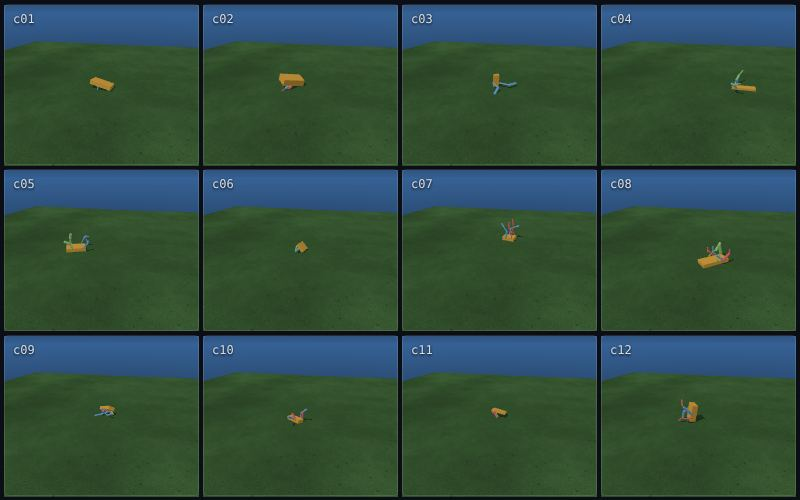
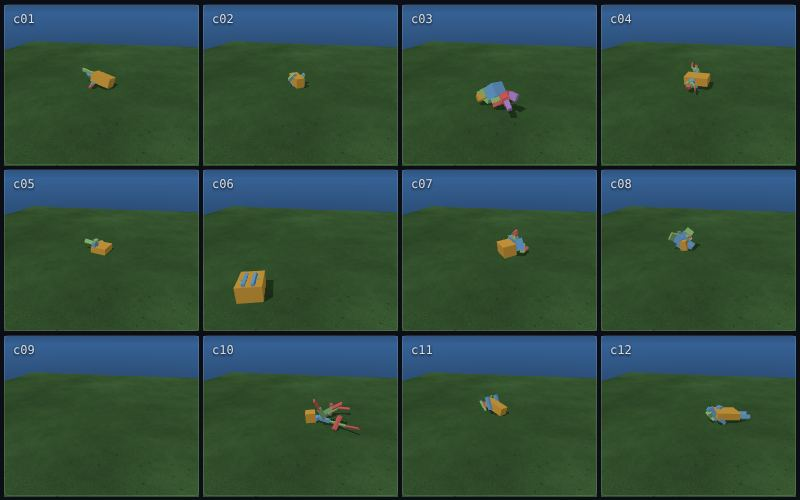
Evolved creatures: bodies are trees of blocks (face, size, hinge axis, mirror, second segment) so novel morphologies can evolve; guard against thrown creatures
Claude-Session: https://claude.ai/code/session_01Uuc6dwJ5Bjk5VjRCLHRDrp

diff --git a/examples/evolved-creatures/creatures.js b/examples/evolved-creatures/creatures.js
@@ -4,9 +4,13 @@
 //
 //   the creature   a controller. Its body and brain come from the scene's `data.genome`, so the same
 //                  script drives any creature a genome describes.
-//   the genome     plain data: torso size, up to three mirrored pairs of limbs (each one to three
-//                  segments with a length, a thickness and a hinge direction), and the weights of a
-//                  small neural network. `bodyOf` turns it into the scene's body.
+//   the genome     plain data, in two parts. The BODY is a short list of blocks. The first is the trunk;
+//                  every other block says which earlier block it hangs from, on which face, where on
+//                  that face, how big it is, which way its hinge turns, whether to repeat it as a mirror
+//                  image across the body, and whether to continue it as a second segment. That is a small
+//                  version of Sims' recursive graph, and it can still make legs, arms, tails, fins,
+//                  spines and stacks of blocks nobody planned. The BRAIN is the weights of a small
+//                  neural network with one slot for every joint a body could have.
 //   the parent     a program that runs a whole population as sub-simulations, one creature each, side by
 //                  side. At the end of a generation it ranks them by how far they walked, keeps the best,
 //                  and breeds the rest. Evolution is written here, not in the engine.
@@ -14,16 +18,82 @@
 // Try: raise "mutation strength" for wilder offspring, lower "survivors kept" for stronger selection, and
 // click a tile to watch one creature on its own.
 
-const PAIRS = 3 // limb pairs a body can grow
-const SEGS = 3 // segments in a limb
-const SLOTS = PAIRS * 2 * SEGS // every joint a body could have
-const SIZES = [SLOTS + PAIRS * 2 + 5, 10, SLOTS] // brain: joint angles, touch, which way is up, a clock -> joint targets
+const BLOCKS = 7 // blocks after the trunk
+const SIDES = 2 // an instance of a block is on the genome's side (0) or its mirror image (1)
+const CHAIN = 2 // a block can continue as a second segment
+const SLOTS = BLOCKS * SIDES * CHAIN // every joint a body could have
+const SIZES = [SLOTS + 5, 12, SLOTS] // brain: joint angles, which way is up, a clock -> joint targets
 const WEIGHTS = SIZES.slice(1).reduce((n, out, i) => n + (SIZES[i] + 1) * out, 0)
 const SWING = 1.2 // radians a joint can turn either way
 const SETTLE = 90 // ticks a creature gets to land before its walk is measured
+const AXES = [[1, 0, 0], [0, 1, 0], [0, 0, 1]]
+const FACES = [[0, 1], [0, -1], [1, 1], [1, -1], [2, 1], [2, -1]] // [axis, direction]: which side of the parent block
+const COLORS = ['#d9a441', '#6fa8dc', '#93c47d', '#e06666', '#b48ad9', '#76d7c4']
 
-const slot = (pair, side, seg) => pair * 6 + side * 3 + seg
-const sideName = ['L', 'R']
+const slotOf = (i, side, seg) => ((i - 1) * SIDES + side) * CHAIN + seg
+const nameOf = (i, side, seg) => `${i}_${side}_${seg}`
+
+// ---------------------------------------------------------------------------------------------------------
+// The body: a genome becomes a tree of blocks
+
+/**
+ * Lay a genome out as blocks standing on the ground: every block with its size, where its middle is, where its joint is, and
+ * which block it hangs from. A block that hangs from something that is switched off is dropped, and mirrored blocks are placed
+ * on the other side of the trunk.
+ */
+export function layout(g) {
+  const items = [{ i: 0, side: 0, seg: 0, size: g.root.slice(), center: [0, 0, 0], depth: 0, parent: null }]
+  const byKey = new Map([[nameOf(0, 0, 0), items[0]]])
+  const sides = [[0]] // which sides each block exists on; the trunk only on side 0
+  g.blocks.forEach((b, k) => {
+    const i = k + 1
+    if (!b.on || !sides[b.parent]) return
+    sides[i] = b.mirror ? [0, 1] : sides[b.parent]
+    for (const side of sides[i]) {
+      const parent = byKey.get(nameOf(b.parent, sides[b.parent].includes(side) ? side : sides[b.parent][0], 0))
+      let [axis, dir] = FACES[b.face]
+      if (side && axis === 2) dir = -dir // the mirror image sits on the other side
+      const over = [0, 1, 2].filter((a) => a !== axis) // the two directions along the parent's face
+      const offset = [0, 0, 0]
+      offset[over[0]] = b.u * parent.size[over[0]] / 2
+      offset[over[1]] = b.v * parent.size[over[1]] / 2
+      if (side) offset[2] = -offset[2]
+      let from = parent, size = b.size.slice()
+      for (let seg = 0; seg < b.chain; seg++) {
+        const center = from.center.map((c, a) => c + offset[a])
+        center[axis] += dir * (from.size[axis] / 2 + size[axis] / 2)
+        const anchor = from.center.map((c, a) => c + offset[a])
+        anchor[axis] += dir * from.size[axis] / 2
+        const item = { i, side, seg, size, center, anchor, depth: from.depth + 1, parent: from, hinge: seg ? b.axis2 : b.axis }
+        items.push(item)
+        byKey.set(nameOf(i, side, seg), item)
+        from = item
+        size = size.map((s) => Math.max(0.05, s * 0.8))
+        offset.fill(0) // a second segment continues straight on
+      }
+    }
+  })
+  const floor = Math.min(...items.map((t) => t.center[1] - t.size[1] / 2))
+  for (const t of items) {
+    t.center[1] += 0.03 - floor
+    if (t.anchor) t.anchor[1] += 0.03 - floor
+  }
+  return items
+}
+
+/** The scene's body for a genome: a box for every block and a hinge motor between each block and the one it hangs from. */
+export function bodyOf(g) {
+  const parts = [], joints = []
+  for (const t of layout(g)) {
+    const name = `B${nameOf(t.i, t.side, t.seg)}`
+    const mass = Math.max(0.05, 50 * t.size[0] * t.size[1] * t.size[2])
+    parts.push({ name, shape: 'box', size: t.size, mass, position: t.center, color: COLORS[t.depth % COLORS.length] })
+    if (!t.parent) continue
+    const stiffness = 60 + 120 * Math.min(3, mass)
+    joints.push({ name: `J${nameOf(t.i, t.side, t.seg)}`, parent: `B${nameOf(t.parent.i, t.parent.side, t.parent.seg)}`, child: name, anchor: t.anchor, axis: AXES[t.hinge], limits: [-SWING, SWING], motor: { stiffness, damping: stiffness * 0.1 } })
+  }
+  return { parts, joints, sensors: [{ type: 'pose' }, { type: 'joints' }] }
+}
 
 // ---------------------------------------------------------------------------------------------------------
 // The creature
@@ -35,25 +105,19 @@ export default {
     const x = new Float64Array(SIZES[0])
     const joints = self.joints
     const live = [] // [joint name, slot] for each joint this body has
-    g.pairs.forEach((pair, i) => {
-      if (!pair.on) return
-      for (let side = 0; side < 2; side++) {
-        for (let k = 0; k < pair.segs.length; k++) {
-          const name = `J${i}${sideName[side]}${k}`
-          x[slot(i, side, k)] = (joints[name] ?? 0) / SWING
-          live.push([name, slot(i, side, k)])
-        }
-        const foot = `S${i}${sideName[side]}${pair.segs.length - 1}`
-        x[SLOTS + i * 2 + side] = self.touch[foot] ? 1 : 0
-      }
-    })
+    for (const t of layout(g)) {
+      if (!t.parent) continue
+      const name = `J${nameOf(t.i, t.side, t.seg)}`
+      x[slotOf(t.i, t.side, t.seg)] = (joints[name] ?? 0) / SWING
+      live.push([name, slotOf(t.i, t.side, t.seg)])
+    }
     const up = self.up
-    x[SLOTS + PAIRS * 2] = up.x
-    x[SLOTS + PAIRS * 2 + 1] = up.y
-    x[SLOTS + PAIRS * 2 + 2] = up.z
+    x[SLOTS] = up.x
+    x[SLOTS + 1] = up.y
+    x[SLOTS + 2] = up.z
     const phase = 2 * Math.PI * g.rhythm * ctx.tick * ctx.dt
-    x[SLOTS + PAIRS * 2 + 3] = Math.sin(phase)
-    x[SLOTS + PAIRS * 2 + 4] = Math.cos(phase)
+    x[SLOTS + 3] = Math.sin(phase)
+    x[SLOTS + 4] = Math.cos(phase)
 
     const out = ctx.mlp(SIZES).run(g.weights, x)
     const targets = {}
@@ -70,90 +134,73 @@ export const metrics = {
   z: ({ creatures }) => mean(creatures.map((c) => c.z)),
   // 1 standing, 0 on its side, -1 upside down
   upright: ({ creatures }) => mean(creatures.map((c) => c.up.y)),
+  // how high and how fast: a parent uses these to spot a creature the physics has thrown across the world
+  y: ({ creatures }) => mean(creatures.map((c) => c.y)),
+  speed: ({ creatures }) => mean(creatures.map((c) => c.speed)),
 }
 
 // ---------------------------------------------------------------------------------------------------------
 // The genome
 
-const RANGE = { length: [0.5, 1.6], width: [0.3, 0.8], height: [0.12, 0.4], at: [-0.35, 0.35], len: [0.12, 0.55], rad: [0.03, 0.09], rhythm: [0.4, 3] }
+const ROOT = [0.3, 1.2], DIM = [0.06, 1], RHYTHM = [0.4, 3]
 const clamp = (v, [lo, hi]) => Math.min(hi, Math.max(lo, v))
 const between = (r, [lo, hi]) => lo + r() * (hi - lo)
+const pickInt = (r, n) => Math.floor(r() * n)
 
-function randomSegment(r) {
-  return { len: between(r, RANGE.len), rad: between(r, RANGE.rad), axis: r() < 0.7 ? 0 : 1 }
-}
-
-function randomPair(r, on) {
-  return { on, at: between(r, RANGE.at), segs: Array.from({ length: 1 + Math.floor(r() * SEGS) }, () => randomSegment(r)) }
+/** A new block: often a long thin one (a limb, a tail), sometimes a lump, hanging from any earlier block. */
+function randomBlock(r, k, on) {
+  const size = [0, 0, 0].map(() => between(r, [0.06, 0.2]))
+  if (r() < 0.7) size[pickInt(r, 3)] = between(r, [0.25, 0.7])
+  else for (let a = 0; a < 3; a++) size[a] = between(r, [0.1, 0.5])
+  return { on, parent: pickInt(r, k + 1), face: pickInt(r, 6), u: between(r, [-0.7, 0.7]), v: between(r, [-0.7, 0.7]), size, axis: pickInt(r, 3), axis2: pickInt(r, 3), mirror: r() < 0.6, chain: 1 + pickInt(r, CHAIN) }
 }
 
 export function randomGenome(r, normal) {
   return {
-    torso: { length: between(r, RANGE.length), width: between(r, RANGE.width), height: between(r, RANGE.height) },
-    pairs: Array.from({ length: PAIRS }, (_, i) => randomPair(r, i === 0 || r() < 0.5)),
-    rhythm: between(r, RANGE.rhythm),
+    root: [between(r, [0.4, 1.1]), between(r, [0.2, 0.5]), between(r, [0.3, 0.8])],
+    blocks: Array.from({ length: BLOCKS }, (_, k) => randomBlock(r, k + 1 - 1, k < 2 || r() < 0.4)),
+    rhythm: between(r, RHYTHM),
     weights: Array.from({ length: WEIGHTS }, () => 0.6 * normal()),
   }
 }
 
-/** A child: each part of the body from either parent, each weight from either parent. */
+/** A child: the trunk and each block from either parent, each weight from either parent. */
 export function crossover(a, b, r) {
   const pick = (x, y) => (r() < 0.5 ? x : y)
   return structuredClone({
-    torso: { length: pick(a.torso.length, b.torso.length), width: pick(a.torso.width, b.torso.width), height: pick(a.torso.height, b.torso.height) },
-    pairs: a.pairs.map((pa, i) => pick(pa, b.pairs[i])),
+    root: pick(a.root, b.root),
+    blocks: a.blocks.map((blk, k) => pick(blk, b.blocks[k])),
     rhythm: pick(a.rhythm, b.rhythm),
     weights: a.weights.map((w, i) => pick(w, b.weights[i])),
   })
 }
 
-/** A copy with some genes nudged. `strength` 0..1 scales how many change and by how much. */
+/** A copy with some genes nudged, blocks added, dropped or moved. `strength` 0..1 scales how many change and by how much. */
 export function mutate(g, strength, r, normal) {
   const c = structuredClone(g)
-  const nudge = (v, range) => clamp(v + normal() * 0.15 * strength * (range[1] - range[0]), range)
   const chance = (p) => r() < p * strength
-  for (const k of ['length', 'width', 'height']) if (chance(0.5)) c.torso[k] = nudge(c.torso[k], RANGE[k])
-  if (chance(0.5)) c.rhythm = nudge(c.rhythm, RANGE.rhythm)
-  c.pairs.forEach((pair, i) => {
-    if (i > 0 && chance(0.1)) pair.on = !pair.on
-    if (chance(0.4)) pair.at = nudge(pair.at, RANGE.at)
-    for (const seg of pair.segs) {
-      if (chance(0.5)) seg.len = nudge(seg.len, RANGE.len)
-      if (chance(0.5)) seg.rad = nudge(seg.rad, RANGE.rad)
-      if (chance(0.08)) seg.axis = 1 - seg.axis
+  const grow = (v, range) => clamp(v * Math.exp(normal() * 0.25 * strength), range) // sizes change by a factor
+  for (let a = 0; a < 3; a++) if (chance(0.4)) c.root[a] = grow(c.root[a], ROOT)
+  if (chance(0.4)) c.rhythm = clamp(c.rhythm + normal() * 0.3 * strength, RHYTHM)
+  c.blocks.forEach((b, k) => {
+    const i = k + 1
+    if (!b.on) {
+      if (chance(0.12)) c.blocks[k] = randomBlock(r, i - 1, true) // a new block appears
+      return
     }
-    if (chance(0.15)) {
-      if (pair.segs.length < SEGS && r() < 0.5) pair.segs.push(randomSegment(r))
-      else if (pair.segs.length > 1) pair.segs.pop()
-    }
+    for (let a = 0; a < 3; a++) if (chance(0.35)) b.size[a] = grow(b.size[a], DIM)
+    if (chance(0.3)) b.u = clamp(b.u + normal() * 0.3 * strength, [-0.9, 0.9])
+    if (chance(0.3)) b.v = clamp(b.v + normal() * 0.3 * strength, [-0.9, 0.9])
+    if (chance(0.1)) b.face = pickInt(r, 6)
+    if (chance(0.1)) b.axis = pickInt(r, 3)
+    if (chance(0.1)) b.axis2 = pickInt(r, 3)
+    if (chance(0.1)) b.mirror = !b.mirror
+    if (chance(0.1)) b.chain = 1 + pickInt(r, CHAIN)
+    if (chance(0.1)) b.parent = pickInt(r, i) // hang from a different earlier block
+    if (k > 0 && chance(0.06)) b.on = false // and a block can disappear, with whatever hung from it
   })
   for (let i = 0; i < c.weights.length; i++) if (r() < 0.12 * Math.max(strength, 0.05)) c.weights[i] += normal() * 0.5 * strength
   return c
-}
-
-/** The scene's body for a genome: a box torso, and for each pair of limbs a chain of capsules on a hinge each side. */
-export function bodyOf(g) {
-  const { length, width, height } = g.torso
-  const reach = Math.max(0, ...g.pairs.filter((p) => p.on).map((p) => p.segs.reduce((n, s) => n + s.len, 0) + p.segs[p.segs.length - 1].rad))
-  const top = reach + height / 2 + 0.03 // the torso's middle, so the longest limb just reaches the ground
-  const parts = [{ name: 'torso', shape: 'box', size: [length, height, width], mass: Math.max(0.5, 40 * length * height * width), position: [0, top, 0], color: '#d9a441' }]
-  const joints = []
-  g.pairs.forEach((pair, i) => {
-    if (!pair.on) return
-    for (let side = 0; side < 2; side++) {
-      const z = (side ? 1 : -1) * (width / 2 + pair.segs[0].rad)
-      let hang = top - height / 2 // the y of the joint the next segment hangs from
-      let parent = 'torso'
-      pair.segs.forEach((seg, k) => {
-        const name = `S${i}${sideName[side]}${k}`
-        parts.push({ name, shape: 'capsule', size: [seg.len, seg.rad], mass: Math.max(0.05, 80 * Math.PI * seg.rad * seg.rad * (seg.len + 1.33 * seg.rad)), position: [pair.at * length, hang - seg.len / 2, z], color: ['#6fa8dc', '#93c47d', '#e06666'][i] })
-        joints.push({ name: `J${i}${sideName[side]}${k}`, parent, child: name, anchor: [pair.at * length, hang, z], axis: seg.axis ? [1, 0, 0] : [0, 0, 1], limits: [-SWING, SWING], motor: { stiffness: 60, damping: 6 } })
-        parent = name
-        hang -= seg.len
-      })
-    }
-  })
-  return { parts, joints, sensors: [{ type: 'pose' }, { type: 'joints' }, { type: 'touch' }] }
 }
 
 // ---------------------------------------------------------------------------------------------------------
@@ -165,6 +212,7 @@ async function launch(host, run) {
   for (const name of [...host.group.sims.keys()]) host.remove(name)
   run.start = []
   run.upright = run.genomes.map(() => ({ sum: 0, n: 0 }))
+  run.thrown = run.genomes.map(() => false)
   run.tickInGen = 0
   for (let i = 0; i < run.genomes.length; i++) {
     const scene = structuredClone(host.scene)
@@ -173,6 +221,10 @@ async function launch(host, run) {
     await host.add(`c${String(i + 1).padStart(2, '0')}`, scene)
   }
 }
+
+// A body that overlaps itself can make the physics engine throw it across the world; that is not walking. A creature that is
+// ever faster than this, or leaves the ground, scores nothing.
+const MAX_SPEED = 8
 
 /**
  * How well each creature did: the straight-line distance it covered between landing and the end of the generation (any direction),
@@ -184,21 +236,29 @@ function scoresOf(host, run) {
     const m = sim.metrics()
     const distance = Math.hypot(m.x - run.start[i].x, m.z - run.start[i].z)
     const stood = run.upright[i].n ? Math.max(0, run.upright[i].sum / run.upright[i].n) : 0
-    return distance * (1 - w + w * stood)
+    return run.thrown[i] ? 0 : distance * (1 - w + w * stood)
   })
 }
 
 export const parent = {
   async init(host) {
     const n = host.params.population
-    runs.set(host, { gen: 1, genomes: Array.from({ length: n }, () => randomGenome(() => host.random(), () => host.normal())), tickInGen: 0, start: [], upright: [], scores: [], best: 0, lastBest: 0, mean: 0 })
+    runs.set(host, { gen: 1, genomes: Array.from({ length: n }, () => randomGenome(() => host.random(), () => host.normal())), tickInGen: 0, start: [], upright: [], thrown: [], scores: [], best: 0, lastBest: 0, mean: 0 })
     await launch(host, runs.get(host))
   },
 
   async step(host) {
     const run = runs.get(host)
     run.tickInGen++
-    if (run.tickInGen > SETTLE && run.tickInGen % 10 === 0) [...host.group.sims.values()].forEach((s, i) => { run.upright[i].sum += s.metrics().upright; run.upright[i].n++ })
+    if (run.tickInGen > SETTLE && run.tickInGen % 10 === 0) {
+      const half = host.scene.terrain.size / 2 - 1
+      ;[...host.group.sims.values()].forEach((s, i) => {
+        const m = s.metrics()
+        run.upright[i].sum += m.upright
+        run.upright[i].n++
+        if (m.speed > MAX_SPEED || m.y < -0.5 || Math.abs(m.x) > half || Math.abs(m.z) > half) run.thrown[i] = true
+      })
+    }
     if (run.tickInGen === SETTLE) run.start = [...host.group.sims.values()].map((s) => ({ x: s.metrics().x, z: s.metrics().z }))
     if (run.tickInGen < host.params.ticks) return
 

diff --git a/packages/core/test/evolved-creatures.test.ts b/packages/core/test/evolved-creatures.test.ts
@@ -28,7 +28,10 @@ test('every genome the example can make is a valid body, and mutation and crosso
     s.data = { genome: g }
     const parsed = parseScene(JSON.stringify(s))
     assert.ok(parsed.ok, parsed.ok ? '' : `genome ${i}: ${parsed.errors.join('\n')}`)
-    assert.ok(g.pairs[0].on, 'the first pair of limbs is never switched off by mutation')
+    assert.ok(g.blocks[0].on, 'the first block is never switched off by mutation')
+    const names = s.entities[0].body.parts.map((p: { name: string }) => p.name)
+    assert.equal(new Set(names).size, names.length, 'every block has its own name (and so its own brain slot)')
+    assert.ok(names.length <= 29)
   }
 })
 

diff --git a/docs/decisions/creatures.md b/docs/decisions/creatures.md
@@ -6,10 +6,10 @@
 
 **2. How does a sub-sim receive its genome?** Options: numeric `params` (hundreds of weights as sliders), a message from the parent at tick 0 (the body is needed at build time, so it cannot carry the body), a closure in the script (cannot be serialized to a worker or a share link), or a structured field in the scene. Chosen: scene `data`, plain JSON, read as `ctx.data`. It is part of the scene, so it is saved, shared, snapshotted with the scene, and valid in workers. The rule of thumb stays: sliders are `params`, structured input is `data`.
 
-**3. How is morphology encoded?** A fixed-size genome so crossover and mutation stay simple: torso size, up to three mirrored limb pairs (on/off, position along the torso), each limb one to three capsule segments (length, thickness, hinge direction). `bodyOf(genome)` writes the scene body, which the normal body validator checks. Not done: Sims' recursive node graph and joint types other than hinges.
+**3. How is morphology encoded?** A small version of Sims' recursive graph, kept to a fixed-size list so crossover and mutation stay simple. The body is a trunk (a box) plus up to seven more blocks. A block says which earlier block it hangs from, on which of its six faces, where on that face (two numbers), its size (three numbers), which axis its hinge turns about, whether to repeat it as a mirror image across the body, and whether to continue it as a second, smaller segment. Blocks hang only from earlier blocks, so the result is always a tree; a block whose parent is switched off disappears with it. All boxes and axis-aligned, so no rotations to get wrong. Mirrored blocks pass the mirroring on to their descendants (every relative z offset flips), which gives left/right symmetry without storing it twice. The same few genes can make legs, arms, tails, spines, fins and stacks of lumps; the old fixed "pairs of legs" body is gone. Mutation changes sizes by a factor, moves blocks on their parent's face, re-hangs a block from another, adds or drops blocks. `layout(genome)` places every block standing on the ground and `bodyOf` writes the body the validator checks. Not done: Sims' joint types other than hinges, rotated attachments, and a node being reused at several places (his recursion limit).
 
-**4. How does a brain fit a body that changes?** One fixed network with a slot for every joint a body could have (18): inputs are those joint angles (zero for absent joints), a touch flag per limb, which way is up, and a clock; outputs are joint targets, and only the slots a body has are used. The network therefore keeps its shape while the body changes, and weights can cross between parents. The clock gives it a rhythm to start from.
+**4. How does a brain fit a body that changes?** One fixed network with a slot for every joint a body could have (28: seven blocks, two sides, two segments): inputs are those joint angles (zero for absent joints), which way is up, and a clock; outputs are joint targets, and only the slots a body has are used. The network therefore keeps its shape while the body changes, and weights can cross between parents. The clock gives it a rhythm to start from.
 
-**Fitness.** Straight-line distance walked between tick 90 (after landing) and the end of the generation, in any direction (the spawn heading is random). Selection keeps the best few unchanged, breeds the rest by tournament, crossover and mutation. Because sims are deterministic, a kept creature scores the same again, so the best score never goes down (a test checks it).
+**Fitness.** A creature scores nothing if it is ever faster than 8 m/s, leaves the terrain or drops below the ground, because overlapping boxes in a random body can make the physics engine throw it (before this guard, scores of hundreds of metres appeared). Otherwise: straight-line distance walked between tick 90 (after landing) and the end of the generation, in any direction (the spawn heading is random). Selection keeps the best few unchanged, breeds the rest by tournament, crossover and mutation. Because sims are deterministic, a kept creature scores the same again, so the best score never goes down (a test checks it).
 
 **Consequences.** `ctx.data` and `self.up` are new script API. A parent script runs on the worker's main loop one tick at a time; a generation swap (a few ms per sim for the physics world) happens between ticks. Physics sub-sims cannot be forked, so clicking a tile starts a fresh run of that creature's scene. Not done: saving the best genome from the page, an embed that runs parents, running sub-sims on several workers (`ParentHost.add` would then take a scene and return a handle), and fitness that rewards anything but distance (by default creatures that roll or tumble forward score like walkers, since tumbling can be a valid strategy; the "reward staying upright" param, 0 to 1, scales a score by the share of the generation spent upright).

diff --git a/MILESTONES.md b/MILESTONES.md
@@ -162,8 +162,8 @@ Karl Sims' creatures as a demo (`examples/evolved-creatures`, decisions in `docs
 
 - [x] **Parents**: a script exports `parent` and runs a group of sub-sims (`ParentRun`, `parentOf`, `ParentHost` in core). The workbench shows them as tiles with a progress line; headless code drives the same class.
 - [x] **Scene `data`** (`ctx.data`): structured, fixed input for a sub-sim, such as its genome. `self.up` for creatures.
-- [x] **The demo**: a genome of torso, up to three mirrored limb pairs of one to three segments, and a neural controller over joint slots; the parent ranks twelve sub-sims by distance walked and breeds the best (elitism, tournament, crossover, mutation). A test checks every genome makes a valid body, same seed gives the same evolution, and the best score never drops.
-- [ ] Not done: saving the best genome, parents in the embed, sub-sims on several workers, Sims' recursive body graph, fitness beyond distance.
+- [x] **The demo**: a genome of a trunk and up to seven blocks (each hangs from an earlier block on a chosen face, with its own size, hinge axis, optional mirror image and optional second segment) and a neural controller over joint slots; the parent ranks twelve sub-sims by distance walked and breeds the best (elitism, tournament, crossover, mutation). A test checks every genome makes a valid body, same seed gives the same evolution, and the best score never drops.
+- [ ] Not done: saving the best genome, parents in the embed, sub-sims on several workers, a node reused at several places and joint types beyond hinges (Sims' full recursion), fitness beyond distance.
 
 ## Later
 
